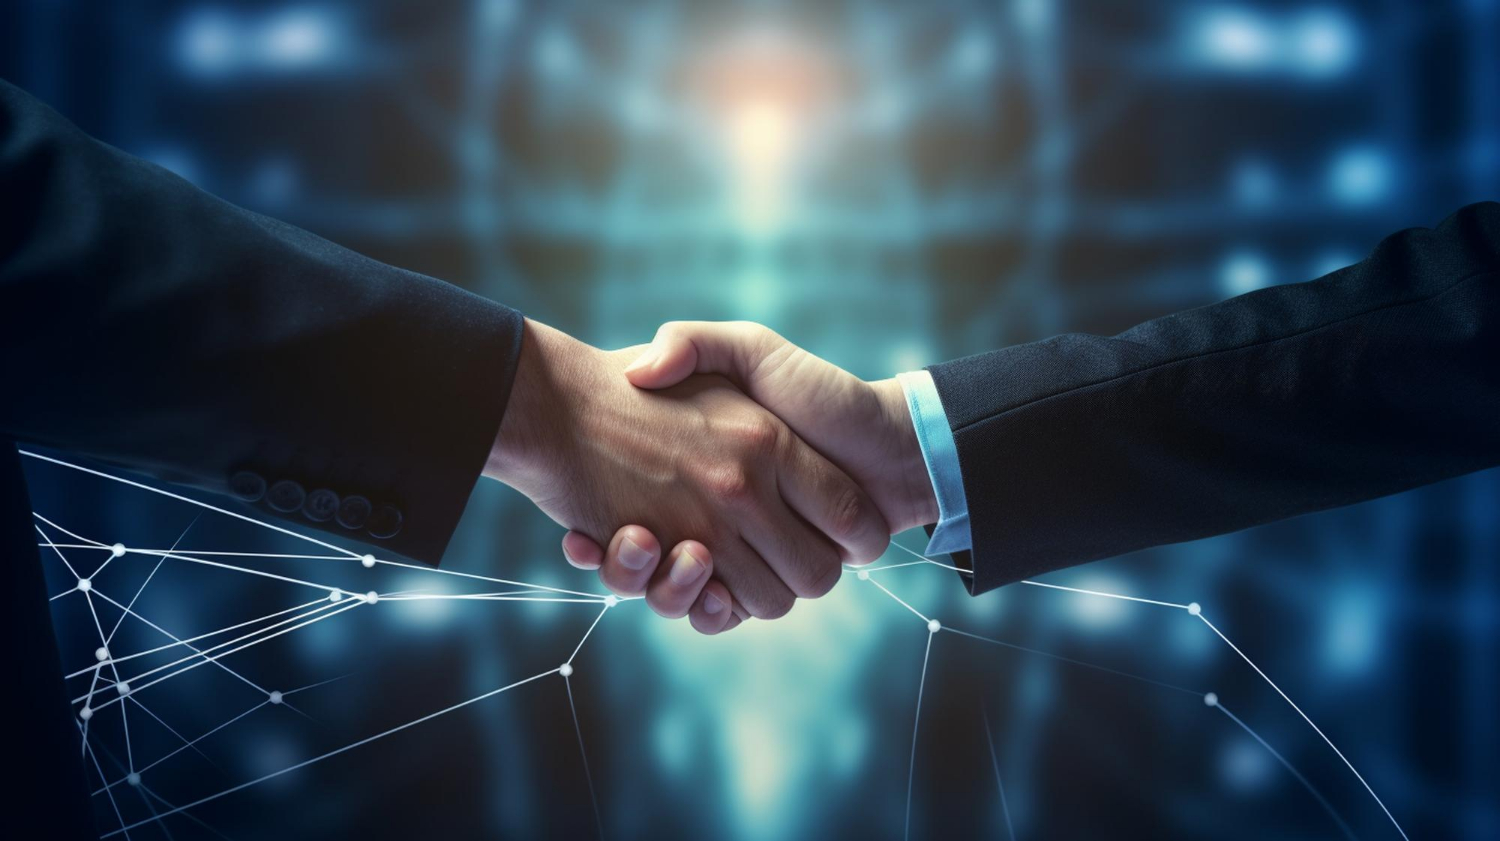
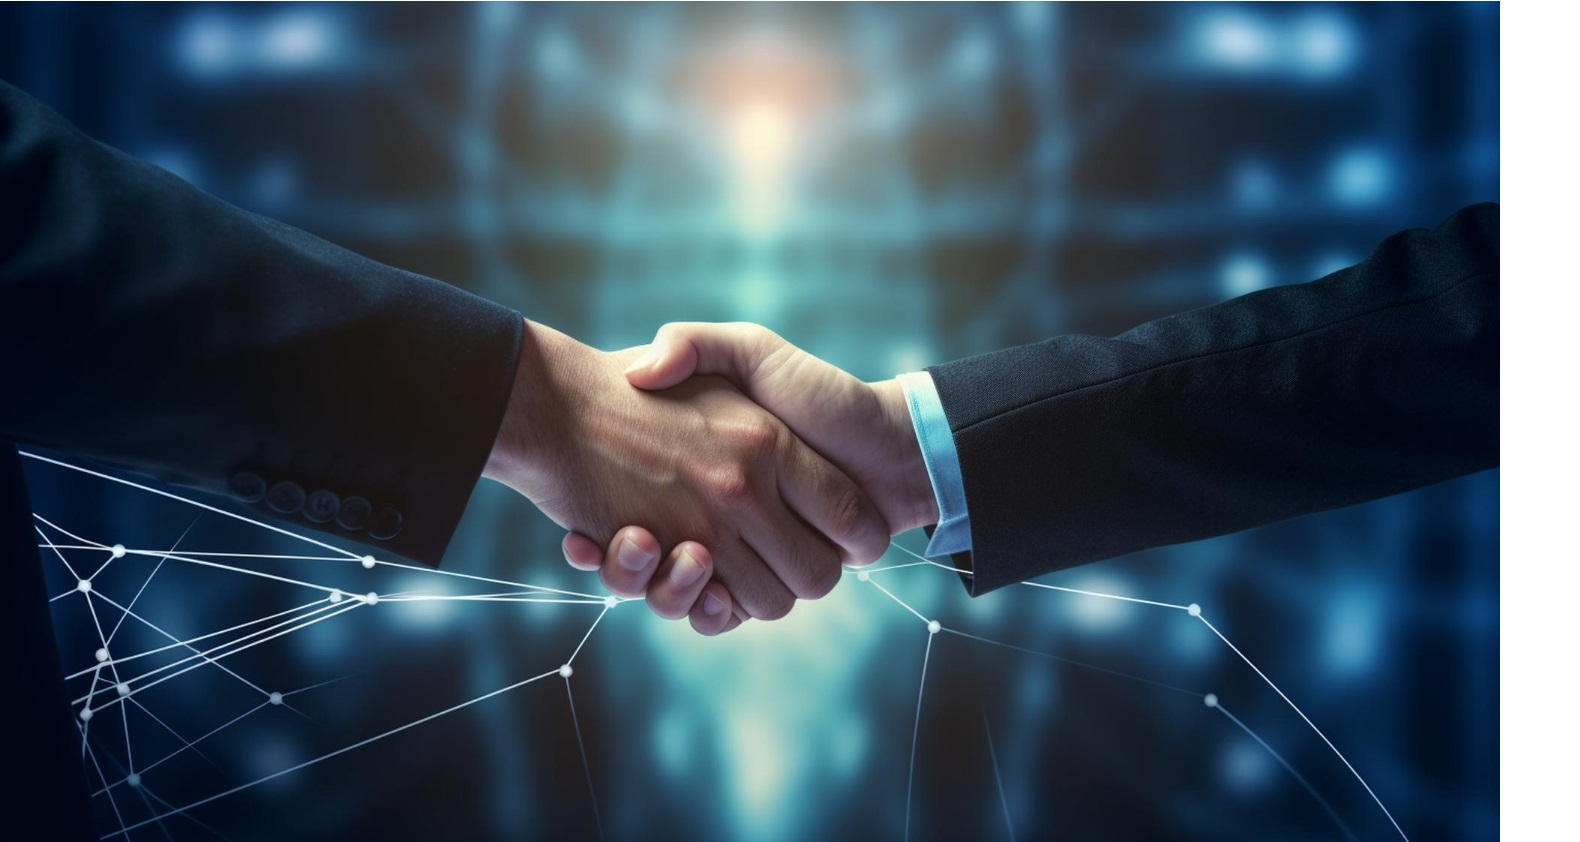
final project

diff --git a/index.html b/index.html
@@ -12,21 +12,22 @@
     <section class="hero">
         <div class="hero-content">
             <p class="hero-title">"In the near future, I hope to become a Developer."</p>
-            <p class="hero-subtitle subtitle-font">Lorem Ipsum is simply dummy text of the printing and typesetting industry. Lorem Ipsum has been the industry's standard dummy text.</p>
-            <button class="btn">Contact with me</button>
+            <p class="hero-subtitle subtitle-font">I am currently admitted in the 'Complete Web Dvelopment Course' by Programming Hero</p>
+            <!-- Click on the following button -->
+            <a href="#footer"><button class="btn">Contact with me</button></a>
         </div>
     </section>
 
     <section class="goal">
         <div class="goal-heading">
             <p class="title-font">Why Web Development??</p>
-            <p class="subtitle-font">Lorem Ipsum is simply dummy text of the printing and typesetting industry. Lorem Ipsum has been the industry's standard dummy text.</p>
+            <p class="subtitle-font">Among the CS skills, web development appears to be easier than most other fields</p>
         </div>
 
         <div class="goal-content">
             <div class="description">
                 <p style="margin-bottom: 32px;">I will Do Coding and Change The World</p>
-                <p class="subtitle-font" style="width: 468px;">Lorem Ipsum is simply dummy text of the printing and typesetting industry.</p>
+                <p class="subtitle-font" style="width: 468px;">I will try to contribute in the industry.</p>
                 <button class="btn1">Learn More</button>
             </div>
             <img src="assets/Layer_1.png">
@@ -36,7 +37,7 @@
             <img src="assets/Group 3.png">
             <div class="description">
                 <p style="margin-bottom: 32px; width: 477px;">I will help People by creating Modern Web System</p>
-                <p class="subtitle-font" style="width: 468px;">Lorem Ipsum is simply dummy text of the printing and typesetting industry.</p>
+                <p class="subtitle-font" style="width: 468px;">I will help People by creating Modern Web System.</p>
                 <button class="btn1">Learn More</button>
             </div>
         </div>
@@ -44,7 +45,7 @@
         <div class="goal-content">
             <div class="description">
                 <p style="margin-bottom: 32px; width: 477px;">I will Do Coding and Change The World</p>
-                <p class="subtitle-font" style="width: 468px;">Lorem Ipsum is simply dummy text of the printing and typesetting industry.</p>
+                <p class="subtitle-font" style="width: 468px;">I will try to contribute in the industry.</p>
                 <button class="btn1">Learn More</button>
             </div>
             <img src="assets/Group 4.png">
@@ -53,7 +54,7 @@
 
     <section class="inspiration">
         <p class="title-font">My inspiration</p>
-        <p class="subtitle-font" style="width: 852px; text-align: center;">Lorem Ipsum is simply dummy text of the printing and typesetting industry. Lorem Ipsum has been the industry's standard dummy text.</p>
+        <p class="subtitle-font" style="width: 852px; text-align: center;">As a Computer Science student, it is essential for me to cover many topics that are not part of my academic curriculum.</p>
         <div class="video-link">
             <iframe src="https://www.youtube.com/embed/5O5e0nnVulY?si=ittRJjisDvach3P7" title="YouTube video player" frameborder="0" allow="accelerometer; autoplay; clipboard-write; encrypted-media; gyroscope; picture-in-picture; web-share" referrerpolicy="strict-origin-when-cross-origin" allowfullscreen></iframe>
         </div>
@@ -66,24 +67,42 @@
             <div class="language" style="background: rgba(255, 76, 30, 0.05);">
                 <img src="assets/html.png">
                 <br><p class="skill-title">HTML</p>
-                <p class="subtitle-font" style=" margin-top: 10px;">Lorem Ipsum is simply dummy text of the printing.</p>
+                <p class="subtitle-font" style=" margin-top: 10px;">HTML is the standard markup language for creating Web pages...</p>
                 <a class="skill-link" href="https://www.w3schools.com/html/html_intro.asp" target = "_blank">Learn More</a>
             </div>
 
             <div class="language" style="background: rgba(0, 76, 232, 0.05);">
                 <img src="assets/css.png">
                 <br><p class="skill-title">CSS</p>
-                <p class="subtitle-font" style=" margin-top: 10px;">Lorem Ipsum is simply dummy text of the printing.</p>
+                <p class="subtitle-font" style=" margin-top: 10px;">CSS is the language we use to style an HTML document...</p>
                 <a class="skill-link" href="https://www.w3schools.com/css/default.asp" target="_blank">Learn More</a>
             </div>
 
             <div class="language" style="background: rgba(255, 223, 0, 0.05);">
                 <img src="assets/js.png">
                 <br><p class="skill-title">JavaScript</p>
-                <p class="subtitle-font" style=" margin-top: 10px;">Lorem Ipsum is simply dummy text of the printing.</p>
+                <p class="subtitle-font" style=" margin-top: 10px;">JavaScript is the programming language of the Web...</p>
                 <a class="skill-link" href="https://www.w3schools.com/js/default.asp" target="_blank">Learn More</a>
             </div>
         </div>
     </section>
+
+    <section class="support">
+        <p class="support-title">I Need Support</p>
+        <p class="subtitle-font" style="color: rgba(255, 255, 255, 0.71); margin-bottom: 2px;">Any Suggestions will be valuable for me</p>
+        <div class="feedback">
+            <input id="name" type="text" placeholder="Suggest any feedback for me">
+            <button class="btn" style="height: 57px; background-color: white; color: black;">Submit</button>
+        </div>
+    </section>
+
+    <footer id="footer">
+        <h3>An Open Commitment by Sheikh Farhan Adib</h3>
+        <div id="icons">
+            <a href="https://www.facebook.com/Frhn.Adb.Avr" target="_blank"><img src="assets/facebook.png"></a>&nbsp
+            <a href="https://github.com/farhan-2204" target="_blank"><img src="assets/github.png"></a>&nbsp
+            <a href="https://www.linkedin.com/in/farhan-auvro-16938727b/" target="_blank"><img src="assets/linkedin-icon 1.png"></a>
+        </div>
+    </footer>
 </body>
 </html>

diff --git a/style/style.css b/style/style.css
@@ -4,6 +4,7 @@
     margin: 0px;
     padding: 0px;
     font-family: Azeret Mono;
+    scroll-behavior: smooth;
 }
 
 /* Universal classes */
@@ -154,6 +155,7 @@ letter-spacing: 0%;
     border-radius: 16px;
 }
 
+/* target section */
 .target{
     margin: 0px 150px 200px 150px;
     display: flex;
@@ -197,6 +199,55 @@ letter-spacing: 0%;
     text-decoration-line: underline;
     margin-top: 24px;
 }
+
+/* support */
+.support{
+    margin: 0px 150px 80px 150px ;
+    background-image: linear-gradient(180.00deg, rgba(10, 20, 30) -19.5%,rgba(16, 16, 16, 0) 100%),url(../assets/handshake.jpg);
+    background-size: 1235px 340px;
+    height: 210px;
+    padding: 64px 48px;
+    border-radius: 16px;
+    text-align: center;
+}
+
+.support-title{
+    color: rgb(255, 255, 255);
+    font-size: 32px;
+    font-weight: 700;
+    line-height: 36px;
+    letter-spacing: 0%;
+    text-align: center;
+    margin-bottom: 32px;
+}
+
+.feedback{
+
+}
+
+#name{
+    border-radius: 8px;
+    background: rgb(255, 255, 255);
+    padding: 19px 20px 19px 20px;
+    width: 548px;
+
+    color: rgba(13, 19, 33, 0.4);
+    font-size: 16px;
+    font-weight: 400;
+    line-height: 19px;
+    letter-spacing: 0%;
+}
+
+#footer{
+    border-radius: 16px;
+    background: rgba(13, 19, 33, 0.03);
+    margin: 5px 10px 5px 10px;
+    padding: 32px 150px 32px 150px;
+    display: flex;
+    gap: 500px;
+}
+
+
 
 
 
